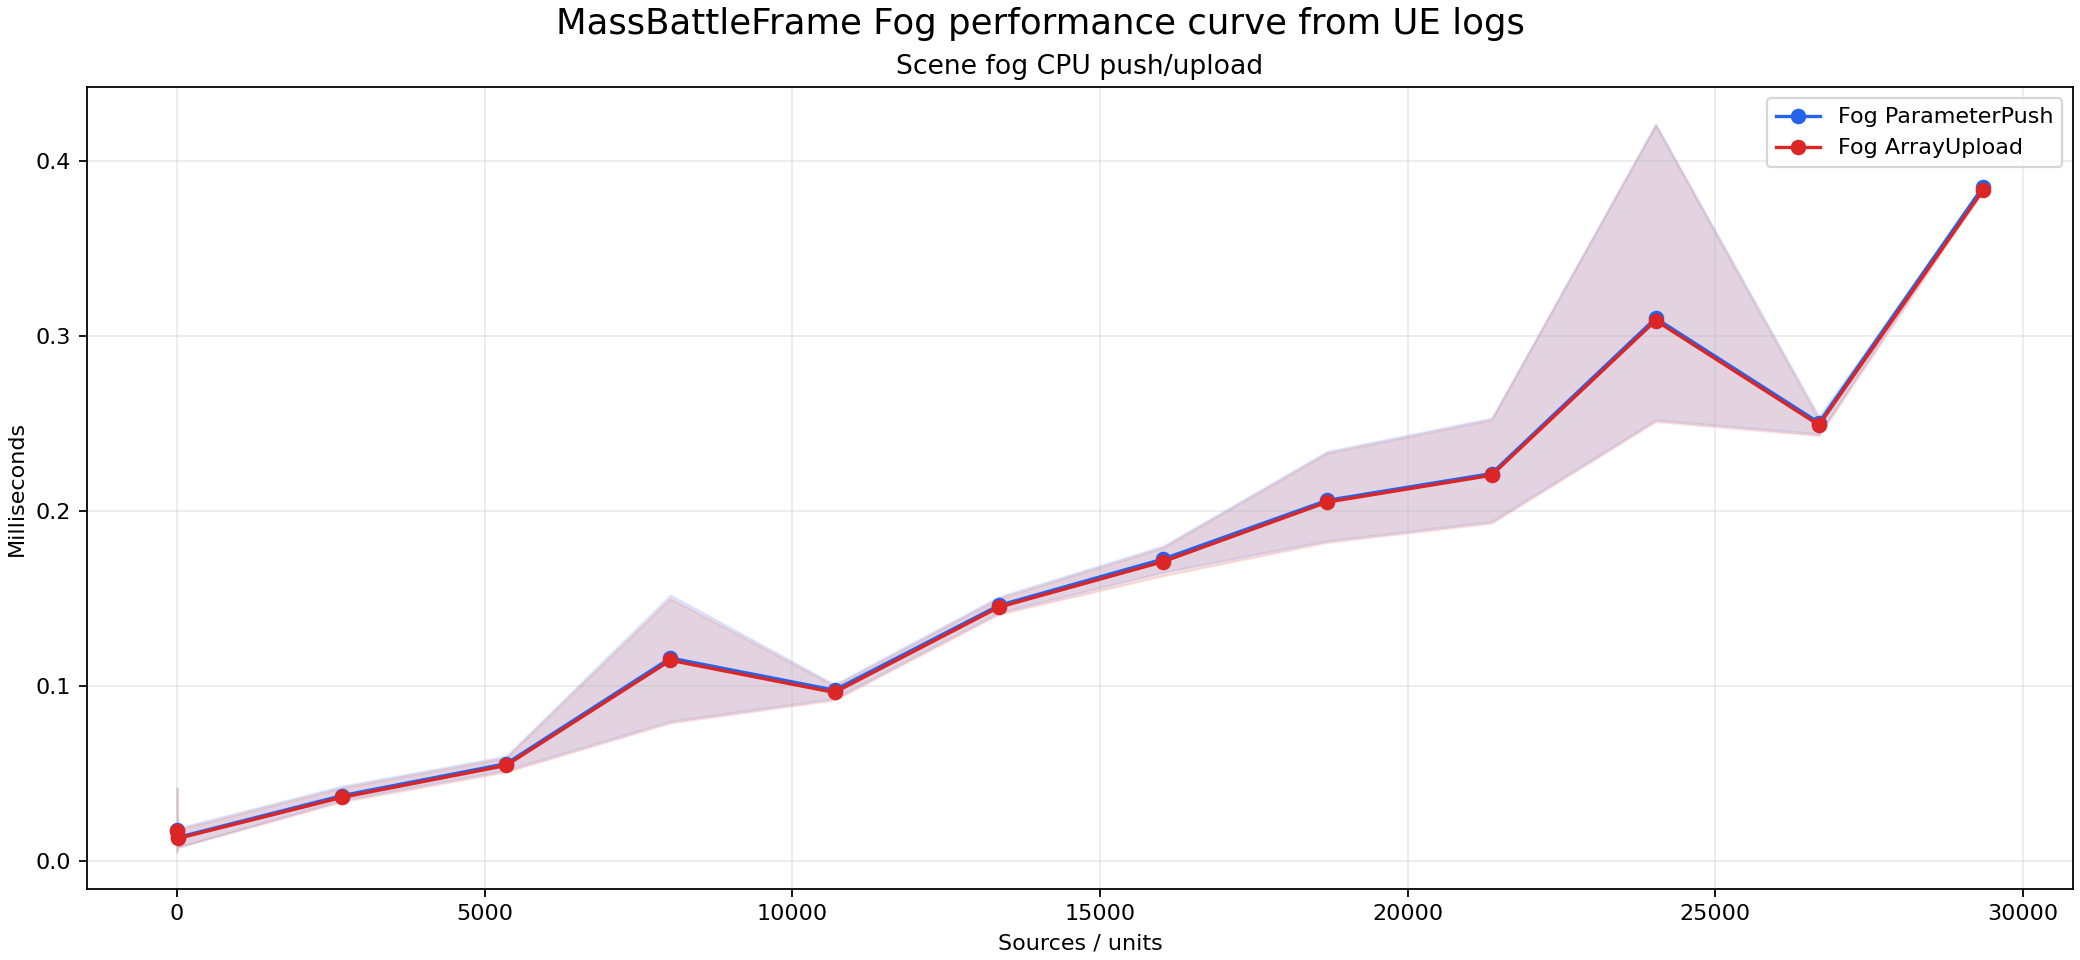
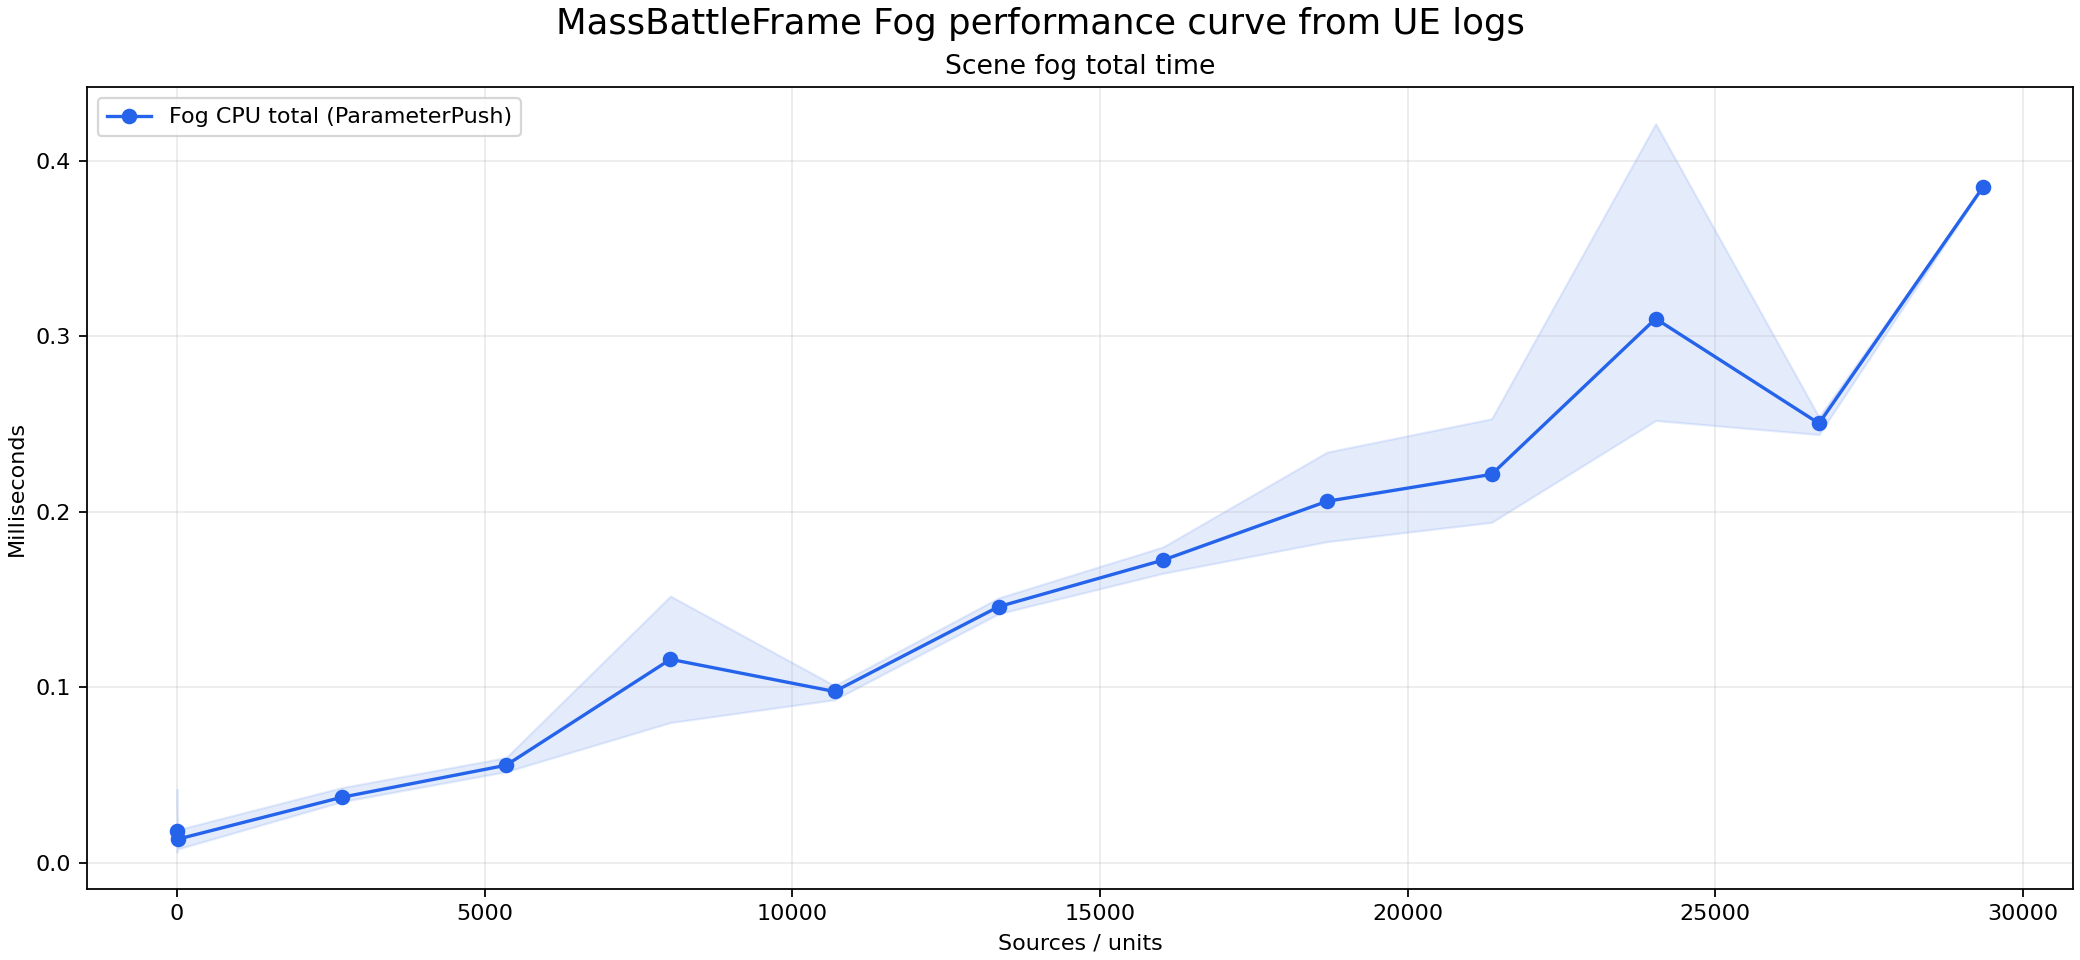
Add latest fog performance log reporter

diff --git a/Scripts/ReportLatestMassBattleFrameFogPerf.py b/Scripts/ReportLatestMassBattleFrameFogPerf.py
@@ -1,0 +1,238 @@
+#!/usr/bin/env python3
+"""Print the latest MassBattleFrame scene-fog performance records.
+
+Run from any directory:
+
+    python ReportLatestMassBattleFrameFogPerf.py
+
+The default log is the newest *.log file under the project's Saved/Logs
+directory.  Pass --log when the project is elsewhere.
+
+The reported scene-fog total is deliberately explicit:
+
+    serialized total = CPU ParameterPush + GPU VisionMask + GPU Composite
+
+ParameterPush already contains the ArrayUpload work, so ArrayUpload is shown
+as a diagnostic sub-timing and is not added a second time.  CPU and GPU can
+overlap; therefore serialized total is an upper-bound accounting value, not a
+claim about wall-clock frame time.
+"""
+
+from __future__ import annotations
+
+import argparse
+import re
+import sys
+from pathlib import Path
+from statistics import mean
+from typing import Iterable, Optional
+
+
+NUMBER = r"[-+]?\d+(?:\.\d+)?"
+
+CPU_RE = re.compile(
+    rf"\[FogOfWarPerf\]\[MassBattleFrameFog\].*?"
+    rf"ParameterPush=(?P<push>{NUMBER})ms.*?"
+    rf"ArrayUpload=(?P<upload>{NUMBER})ms.*?"
+    rf"Sources=(?P<sources>\d+).*?"
+    rf"Batches=(?P<batches>\d+).*?"
+    rf"SceneGPU=(?P<scene_gpu>\w+)",
+    re.IGNORECASE,
+)
+
+GPU_RE = re.compile(
+    rf"\[FogOfWarPerf\]\[MassBattleFrameFogGPU\].*?"
+    rf"Sources=(?P<sources>\d+).*?"
+    rf"Samples=(?P<samples>\d+).*?"
+    rf"VisionMask=(?P<vision>{NUMBER})ms.*?"
+    rf"Composite=(?P<composite>{NUMBER})ms.*?"
+    rf"Total=(?P<total>{NUMBER})ms.*?"
+    rf"TotalMin=(?P<minimum>{NUMBER})ms.*?"
+    rf"TotalMax=(?P<maximum>{NUMBER})ms",
+    re.IGNORECASE,
+)
+
+MINIMAP_RE = re.compile(
+    rf"MassBattleMinimapPerf GPU:.*?"
+    rf"Agents=(?P<agents>\d+).*?"
+    rf"Samples=(?P<samples>\d+).*?"
+    rf"UnitsAvg=(?P<units>{NUMBER})ms.*?"
+    rf"VisionAvg=(?P<vision>{NUMBER})ms.*?"
+    rf"FogAvg=(?P<fog>{NUMBER})ms.*?"
+    rf"TotalAvg=(?P<total>{NUMBER})ms",
+    re.IGNORECASE,
+)
+
+
+def number(value: str) -> float:
+    return float(value)
+
+
+def choose_log(script_path: Path, explicit_log: Optional[Path], project_root: Optional[Path]) -> Path:
+    if explicit_log:
+        path = explicit_log.expanduser().resolve()
+        if not path.is_file():
+            raise FileNotFoundError(f"找不到日志: {path}")
+        return path
+
+    if project_root:
+        root = project_root.expanduser().resolve()
+    else:
+        # .../<Project>/Plugins/FogOfWar/Scripts/this_file.py
+        root = script_path.resolve().parents[3]
+
+    log_dir = root / "Saved" / "Logs"
+    candidates = [path for path in log_dir.glob("*.log") if path.is_file()]
+    if not candidates:
+        raise FileNotFoundError(f"{log_dir} 下没有 .log 文件")
+    return max(candidates, key=lambda path: path.stat().st_mtime)
+
+
+def parse_log(path: Path) -> tuple[list[dict], list[dict], list[dict]]:
+    cpu: list[dict] = []
+    gpu: list[dict] = []
+    minimap: list[dict] = []
+
+    with path.open("r", encoding="utf-8", errors="replace") as stream:
+        for line_number, line in enumerate(stream, 1):
+            match = CPU_RE.search(line)
+            if match:
+                item = {key: value for key, value in match.groupdict().items()}
+                item.update(
+                    line=line_number,
+                    push=number(item.pop("push")),
+                    upload=number(item.pop("upload")),
+                    sources=int(item.pop("sources")),
+                    batches=int(item.pop("batches")),
+                )
+                cpu.append(item)
+
+            match = GPU_RE.search(line)
+            if match:
+                item = {key: value for key, value in match.groupdict().items()}
+                item.update(
+                    line=line_number,
+                    sources=int(item.pop("sources")),
+                    samples=int(item.pop("samples")),
+                    vision=number(item.pop("vision")),
+                    composite=number(item.pop("composite")),
+                    total=number(item.pop("total")),
+                    minimum=number(item.pop("minimum")),
+                    maximum=number(item.pop("maximum")),
+                )
+                gpu.append(item)
+
+            match = MINIMAP_RE.search(line)
+            if match:
+                item = {key: value for key, value in match.groupdict().items()}
+                item.update(
+                    line=line_number,
+                    agents=int(item.pop("agents")),
+                    samples=int(item.pop("samples")),
+                    units=number(item.pop("units")),
+                    vision=number(item.pop("vision")),
+                    fog=number(item.pop("fog")),
+                    total=number(item.pop("total")),
+                )
+                minimap.append(item)
+
+    return cpu, gpu, minimap
+
+
+def stats(values: Iterable[float]) -> str:
+    values = list(values)
+    if not values:
+        return "n/a"
+    return f"avg {mean(values):.3f} ms | min {min(values):.3f} ms | max {max(values):.3f} ms"
+
+
+def print_report(path: Path, cpu: list[dict], gpu: list[dict], minimap: list[dict], tail: int) -> None:
+    print(f"日志: {path}")
+    print(f"场景 Fog CPU 记录: {len(cpu)} | 场景 Fog GPU 记录: {len(gpu)} | 小地图 GPU 参考: {len(minimap)}")
+
+    if not cpu and not gpu:
+        print("未找到 MassBattleFrame 场景战争迷雾性能记录。请确认游戏已加载包含 Fog Actor 的新二进制。")
+        return
+
+    recent_cpu = cpu[-tail:] if cpu else []
+    recent_gpu = gpu[-tail:] if gpu else []
+    print(f"\n最近 {max(len(recent_cpu), len(recent_gpu))} 条场景记录:")
+    print("类型       行号   数量     CPU推送   GPU Vision   GPU Composite   GPU总计   串行总计")
+    print("-" * 90)
+
+    gpu_by_sources: dict[int, dict] = {}
+    for item in gpu:
+        gpu_by_sources[item["sources"]] = item
+
+    for item in recent_cpu:
+        gpu_item = gpu_by_sources.get(item["sources"])
+        gpu_total = gpu_item["total"] if gpu_item else None
+        serialized = item["push"] + gpu_total if gpu_total is not None else None
+        print(
+            f"CPU        {item['line']:>5} {item['sources']:>7} "
+            f"{item['push']:>9.3f} "
+            f"{gpu_item['vision']:>11.3f} {gpu_item['composite']:>15.3f} {gpu_total:>9.3f} {serialized:>9.3f}"
+            if gpu_item
+            else
+            f"CPU        {item['line']:>5} {item['sources']:>7} {item['push']:>9.3f} "
+            f"{'-':>11} {'-':>15} {'-':>9} {'-':>9}"
+        )
+
+    for item in recent_gpu:
+        if any(item["line"] == cpu_item["line"] for cpu_item in recent_cpu):
+            continue
+        print(
+            f"GPU        {item['line']:>5} {item['sources']:>7} "
+            f"{'-':>9} {item['vision']:>11.3f} {item['composite']:>15.3f} "
+            f"{item['total']:>9.3f} {'-':>9}"
+        )
+
+    print("\n最近记录统计:")
+    if recent_cpu:
+        print(f"CPU ParameterPush: {stats(item['push'] for item in recent_cpu)}")
+        print(f"CPU ArrayUpload 子计时: {stats(item['upload'] for item in recent_cpu)}（不与 ParameterPush 相加）")
+    if recent_gpu:
+        print(f"GPU VisionMask: {stats(item['vision'] for item in recent_gpu)}")
+        print(f"GPU Composite: {stats(item['composite'] for item in recent_gpu)}")
+        print(f"GPU Total: {stats(item['total'] for item in recent_gpu)}")
+        paired = [
+            cpu_item["push"] + gpu_by_sources[cpu_item["sources"]]["total"]
+            for cpu_item in recent_cpu
+            if cpu_item["sources"] in gpu_by_sources
+        ]
+        if paired:
+            print(f"串行总时间（CPU ParameterPush + GPU Total）: {stats(paired)}")
+        print("注：串行总时间是 CPU/GPU 不扣重叠的核算值，不等同于严格墙钟帧时间。")
+    else:
+        print("GPU Total: 当前日志没有场景 Fog GPU 记录，无法计算完整总时间。")
+        print("请用包含 MassBattleFrameFogGPU 日志输出的新插件二进制重新运行刷兵测试。")
+
+    if minimap:
+        latest = minimap[-1]
+        print(
+            f"\n小地图 GPU 仅作参考（不计入场景 Fog 总时间）: "
+            f"Agents={latest['agents']} Total={latest['total']:.3f} ms"
+        )
+
+
+def main() -> int:
+    parser = argparse.ArgumentParser(description="查看最新 MassBattleFrame 场景战争迷雾性能日志")
+    parser.add_argument("--log", type=Path, help="指定日志文件；默认自动选择 Saved/Logs 下最新的 .log")
+    parser.add_argument("--project-root", type=Path, help="指定 UE 项目根目录；默认从脚本位置推断")
+    parser.add_argument("--tail", type=int, default=20, help="显示最近多少条 CPU/GPU 记录（默认 20）")
+    args = parser.parse_args()
+    if args.tail < 1:
+        parser.error("--tail 必须大于 0")
+
+    try:
+        path = choose_log(Path(__file__), args.log, args.project_root)
+        cpu, gpu, minimap = parse_log(path)
+        print_report(path, cpu, gpu, minimap, args.tail)
+        return 0
+    except (OSError, ValueError) as error:
+        print(f"读取性能日志失败: {error}", file=sys.stderr)
+        return 1
+
+
+if __name__ == "__main__":
+    raise SystemExit(main())

diff --git a/README.md b/README.md
@@ -231,6 +231,24 @@ MassBattleFrameFog Composite
 
 Actor 拖入场景后无需手动指定任何资产；C++ 会自动注册 SceneView GPU pass，不执行 CPU fallback。
 
+### 自动查看最新日志
+
+仓库提供一个不依赖额外 Python 包的日志查看脚本：
+
+```powershell
+python Scripts\ReportLatestMassBattleFrameFogPerf.py
+```
+
+脚本会自动选择项目 `Saved/Logs` 下最近修改的 `.log`，也可以显式指定：
+
+```powershell
+python Scripts\ReportLatestMassBattleFrameFogPerf.py --log D:\UE5Project\Winyunq\Saved\Logs\Winyunq.log --tail 30
+```
+
+脚本中的“串行总时间”定义为：`CPU ParameterPush + GPU VisionMask + GPU Composite`。
+`ArrayUpload` 已包含在 `ParameterPush` 内，只作为子计时展示，不能再次相加；CPU/GPU 可能重叠，所以串行总时间是便于比较的核算上界，不冒充严格墙钟帧时间。
+如果日志没有 `MassBattleFrameFogGPU` 记录，脚本会明确报告无法得到完整场景 Fog 总时间，此时只有 CPU 推送数据，不能拿小地图 GPU 时间代替。
+
 ### 9944 单位实测
 
 测试地图为 `/Game/Map/EastAsia/64`，Win64 Development、D3D12，`FogUpdateRateHz=0`。日志确认本次场景战争迷雾实际收到全部 `9944` 个来源、`24` 个 batch，并且 `SceneGPU=yes`；不是只测试了 728 个单位，也不是空数据路径。
